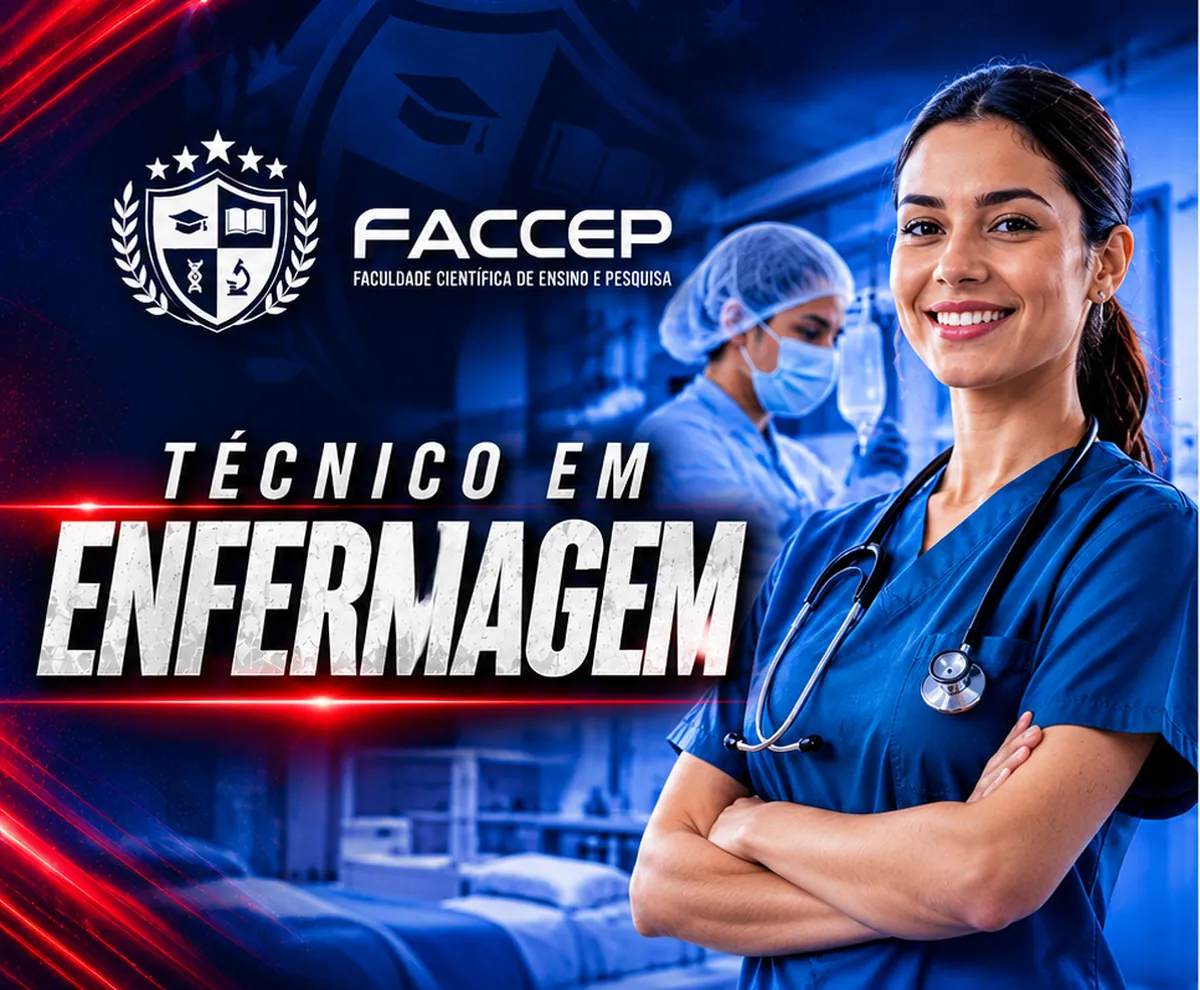
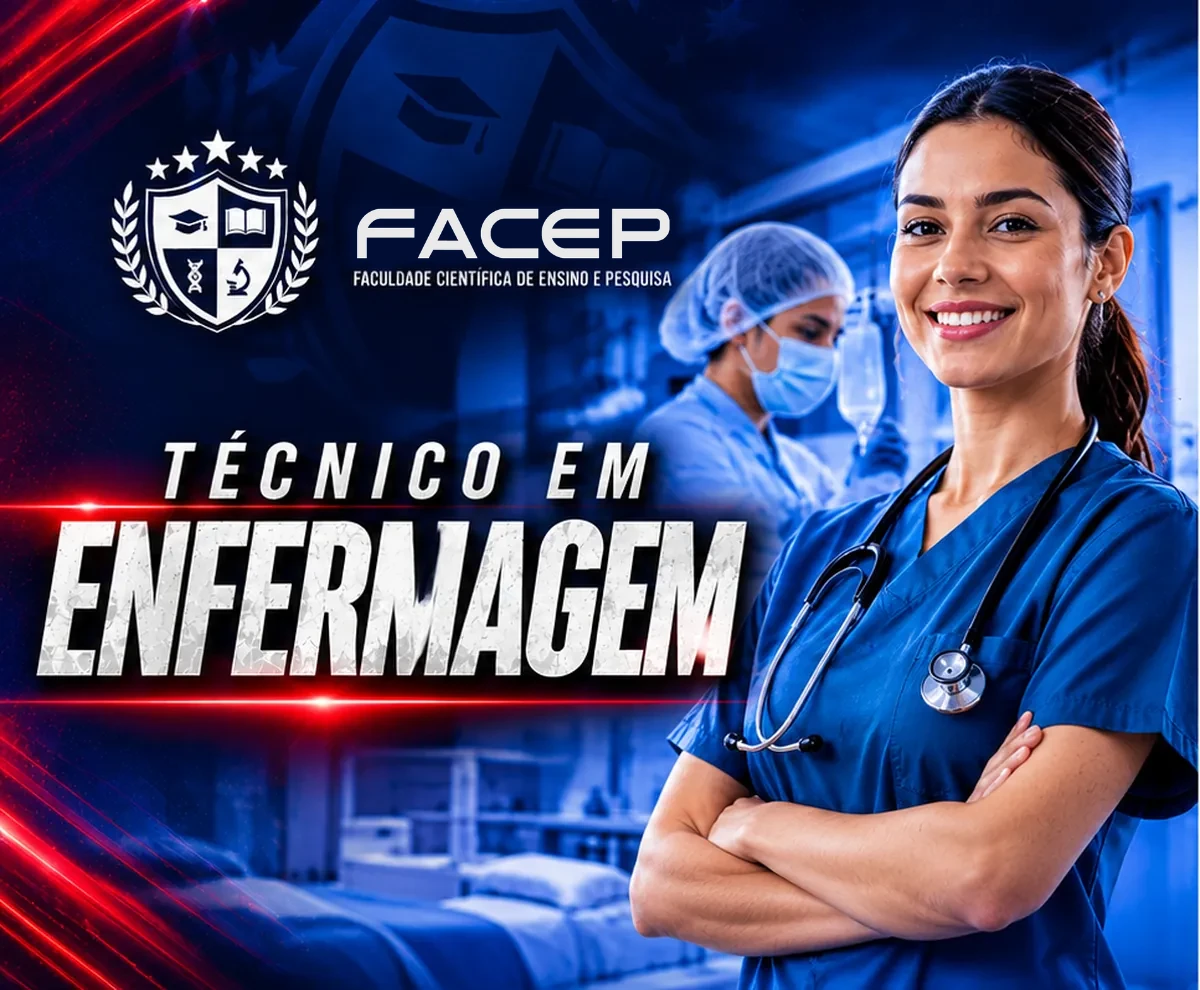
Corrige "FACCEP" para "FACEP" nas capas de Enfermagem, Segurança e Pós
A palavra errada foi trocada pela do logo oficial, na mesma largura;
script em ferramentas/artes/corrige-logo-faccep.html.

Changed region(s): [[0.2775, 0.2121, 0.5858, 0.2727]]

diff --git a/ferramentas/artes/corrige-logo-faccep.html b/ferramentas/artes/corrige-logo-faccep.html
@@ -1,0 +1,45 @@
+<!doctype html><html><body><script>
+// Troca a palavra "FACCEP" (erro de grafia) pela palavra "FACEP" recortada do logo oficial.
+// 1) acha a faixa de letras brancas da palavra (linha de cima, à direita do brasão);
+// 2) cobre essa faixa com a cor média do fundo ao redor, com borda suave;
+// 3) cola "FACEP" do logo oficial com a mesma altura de letra, alinhado à esquerda.
+const capas = ['capa-enfermagem', 'capa-seguranca', 'capa-pos-tecnico'];
+const load = src => new Promise(r => { const i = new Image(); i.onload = () => r(i); i.src = src; });
+function caixaBranca(ctx, x0, y0, x1, y1, lim){
+  const d = ctx.getImageData(x0, y0, x1 - x0, y1 - y0).data, w = x1 - x0, h = y1 - y0;
+  const rows = new Array(h).fill(0), cols = new Array(w).fill(0);
+  for(let y = 0; y < h; y++) for(let x = 0; x < w; x++){ const k = (y * w + x) * 4; if(d[k] > lim && d[k+1] > lim && d[k+2] > lim){ rows[y]++; cols[x]++; } }
+  // primeira faixa contínua de linhas com pixels brancos = palavra principal
+  let a = rows.findIndex(v => v > 2), b = a; while(b < h && rows[b] > 0) b++;
+  const d2 = ctx.getImageData(x0, y0 + a, w, b - a).data; let L = w, Rr = 0;
+  for(let y = 0; y < b - a; y++) for(let x = 0; x < w; x++){ const k = (y * w + x) * 4; if(d2[k] > lim && d2[k+1] > lim && d2[k+2] > lim){ if(x < L) L = x; if(x > Rr) Rr = x; } }
+  return {x: x0 + L, y: y0 + a, w: Rr - L + 1, h: b - a};
+}
+(async () => {
+  const logo = await load('logo.webp');
+  const lc = document.createElement('canvas'); lc.width = logo.naturalWidth; lc.height = logo.naturalHeight;
+  const lx = lc.getContext('2d'); lx.drawImage(logo, 0, 0);
+  // palavra FACEP no logo oficial: à direita do brasão (x>380), parte de cima
+  const pal = caixaBranca(lx, 380, 0, logo.naturalWidth, logo.naturalHeight, 200);
+  const out = {}; out.logo = pal;
+  for(const n of capas){
+    const img = await load(n + '.webp');
+    const c = document.createElement('canvas'); c.width = img.naturalWidth; c.height = img.naturalHeight;
+    const x = c.getContext('2d'); x.drawImage(img, 0, 0);
+    // palavra FACCEP: região à direita do brasão, faixa de cima
+    const box = caixaBranca(x, 320, 130, 720, 330, 215);
+    // cor do fundo: média de uma faixa logo acima da palavra
+    const s = x.getImageData(box.x, Math.max(0, box.y - 26), box.w, 14).data; let r = 0, g = 0, b = 0, q = 0;
+    for(let k = 0; k < s.length; k += 4){ r += s[k]; g += s[k+1]; b += s[k+2]; q++; }
+    const cor = `rgb(${r/q|0},${g/q|0},${b/q|0})`;
+    x.save(); x.filter = 'blur(6px)'; x.fillStyle = cor; x.fillRect(box.x - 10, box.y - 8, box.w + 20, box.h + 16); x.restore();
+    x.fillStyle = cor; x.fillRect(box.x - 4, box.y - 3, box.w + 8, box.h + 6);
+    // FACEP oficial com a mesma altura de letra
+    // mesma largura do FACCEP (que acompanha a linha de baixo, como no logo oficial), centrado na altura
+    const novoW = box.w, novoH = pal.h * (box.w / pal.w), y0 = box.y + (box.h - novoH) / 2;
+    x.drawImage(lc, pal.x, pal.y, pal.w, pal.h, box.x, y0, novoW, novoH);
+    out[n] = {box, cor, novoW: Math.round(novoW), url: c.toDataURL('image/webp', 0.9)};
+  }
+  const pre = document.createElement('pre'); pre.id = 'out'; pre.textContent = JSON.stringify(out); document.body.appendChild(pre);
+})();
+</script></body></html>
